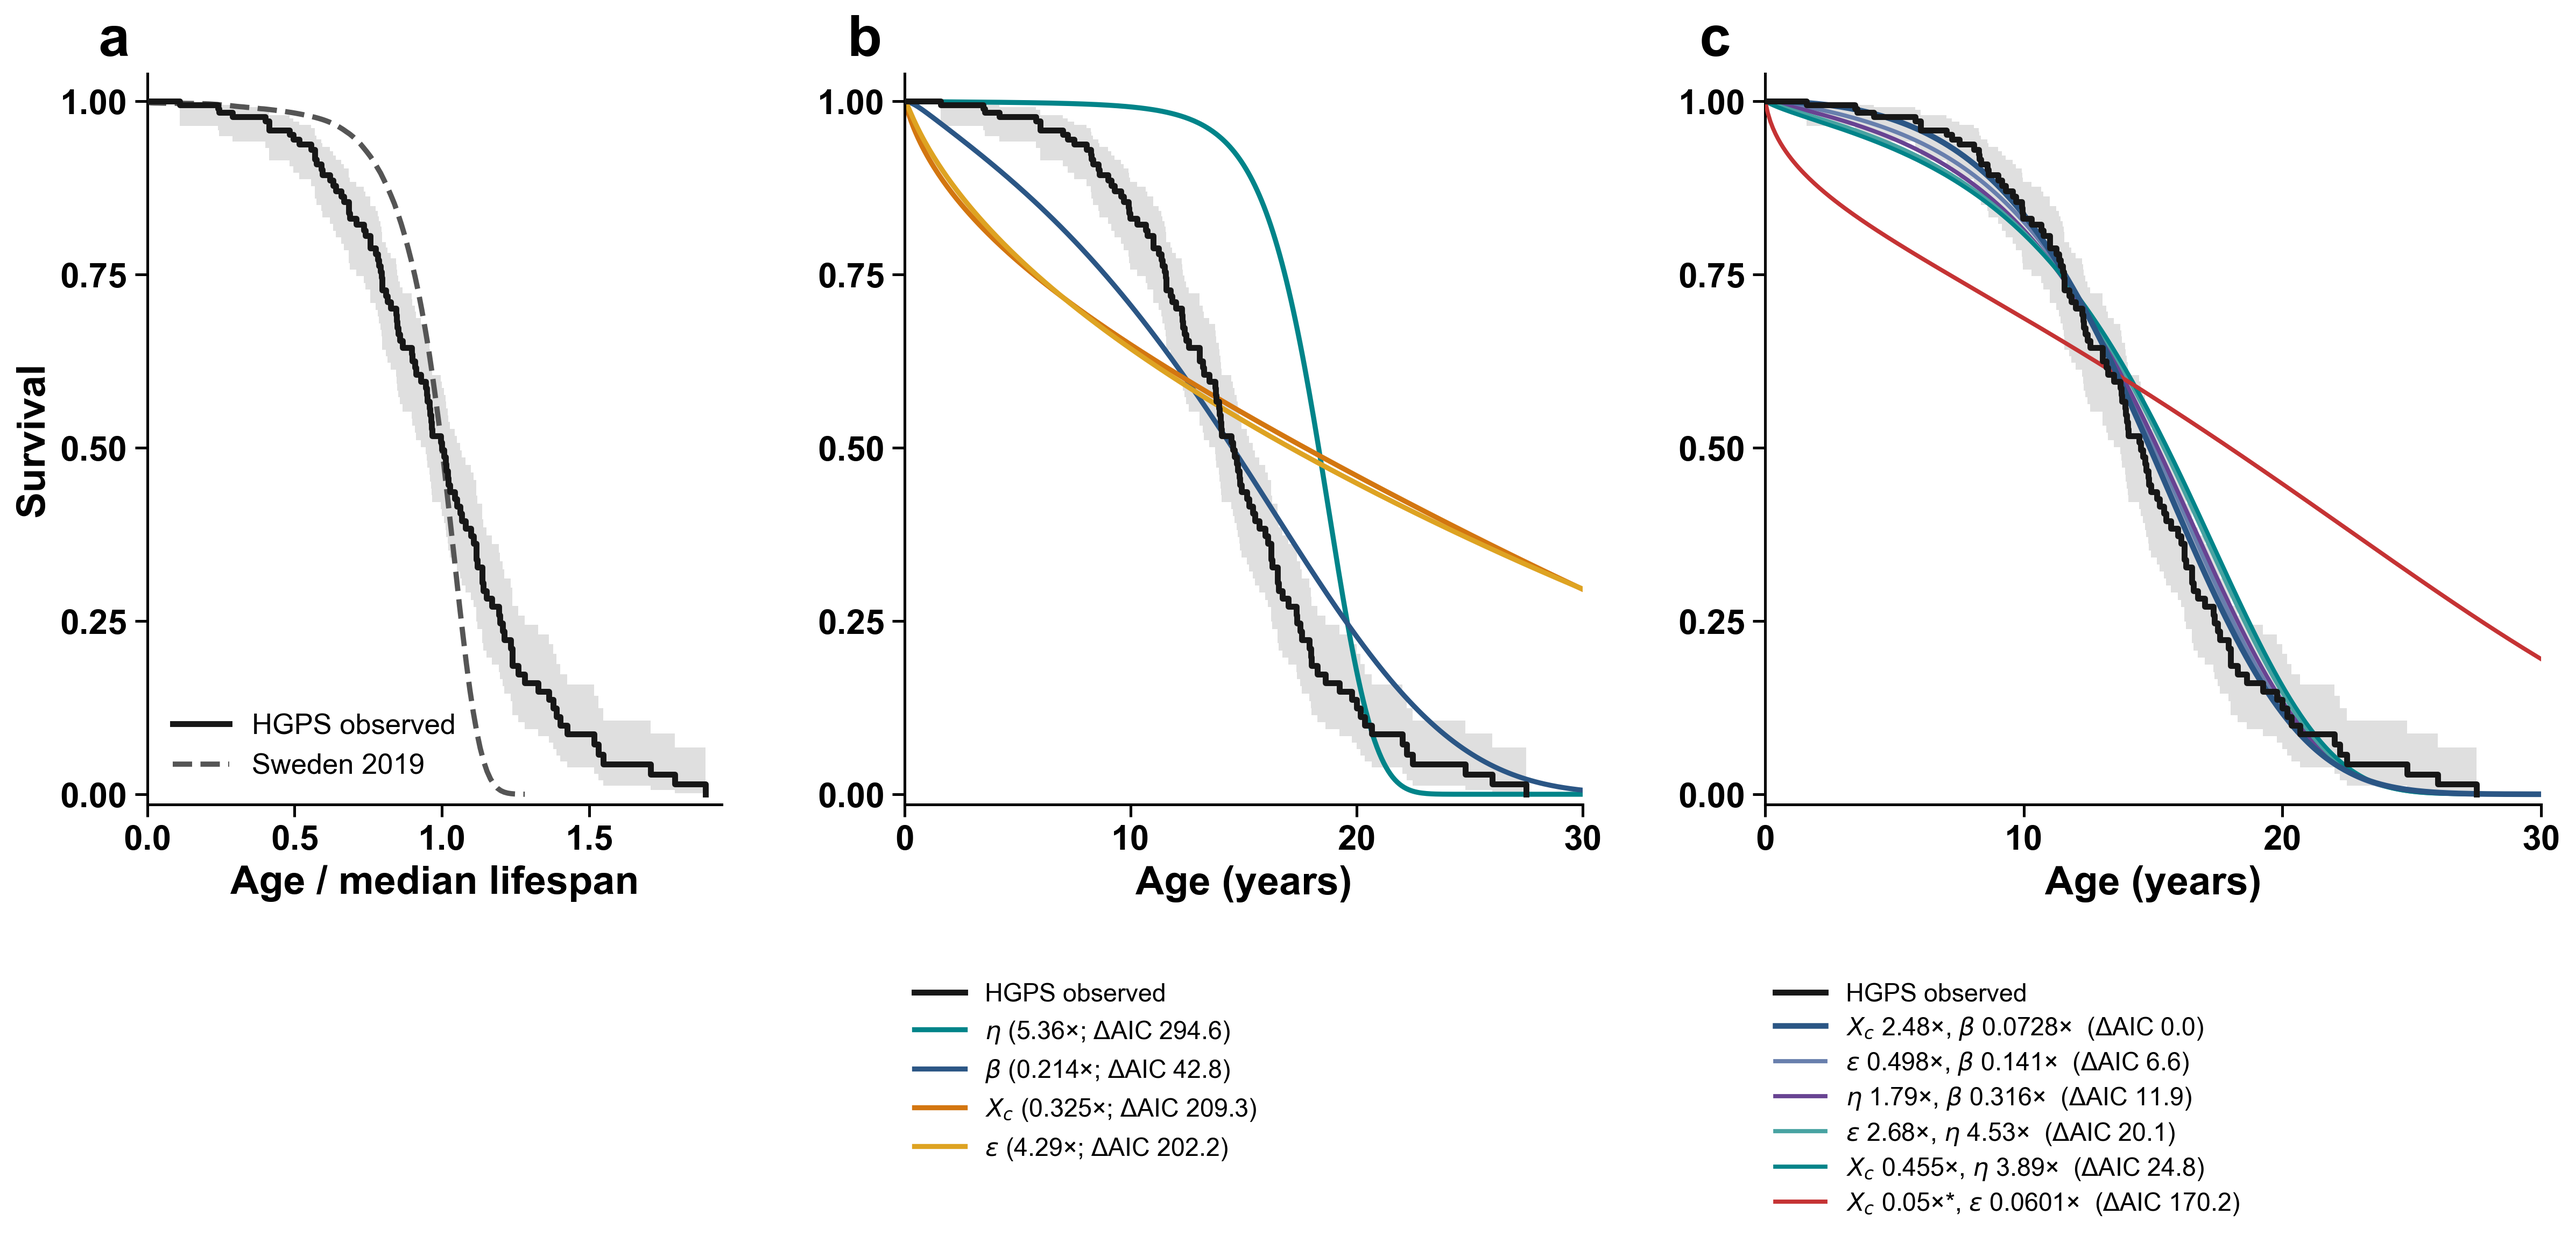
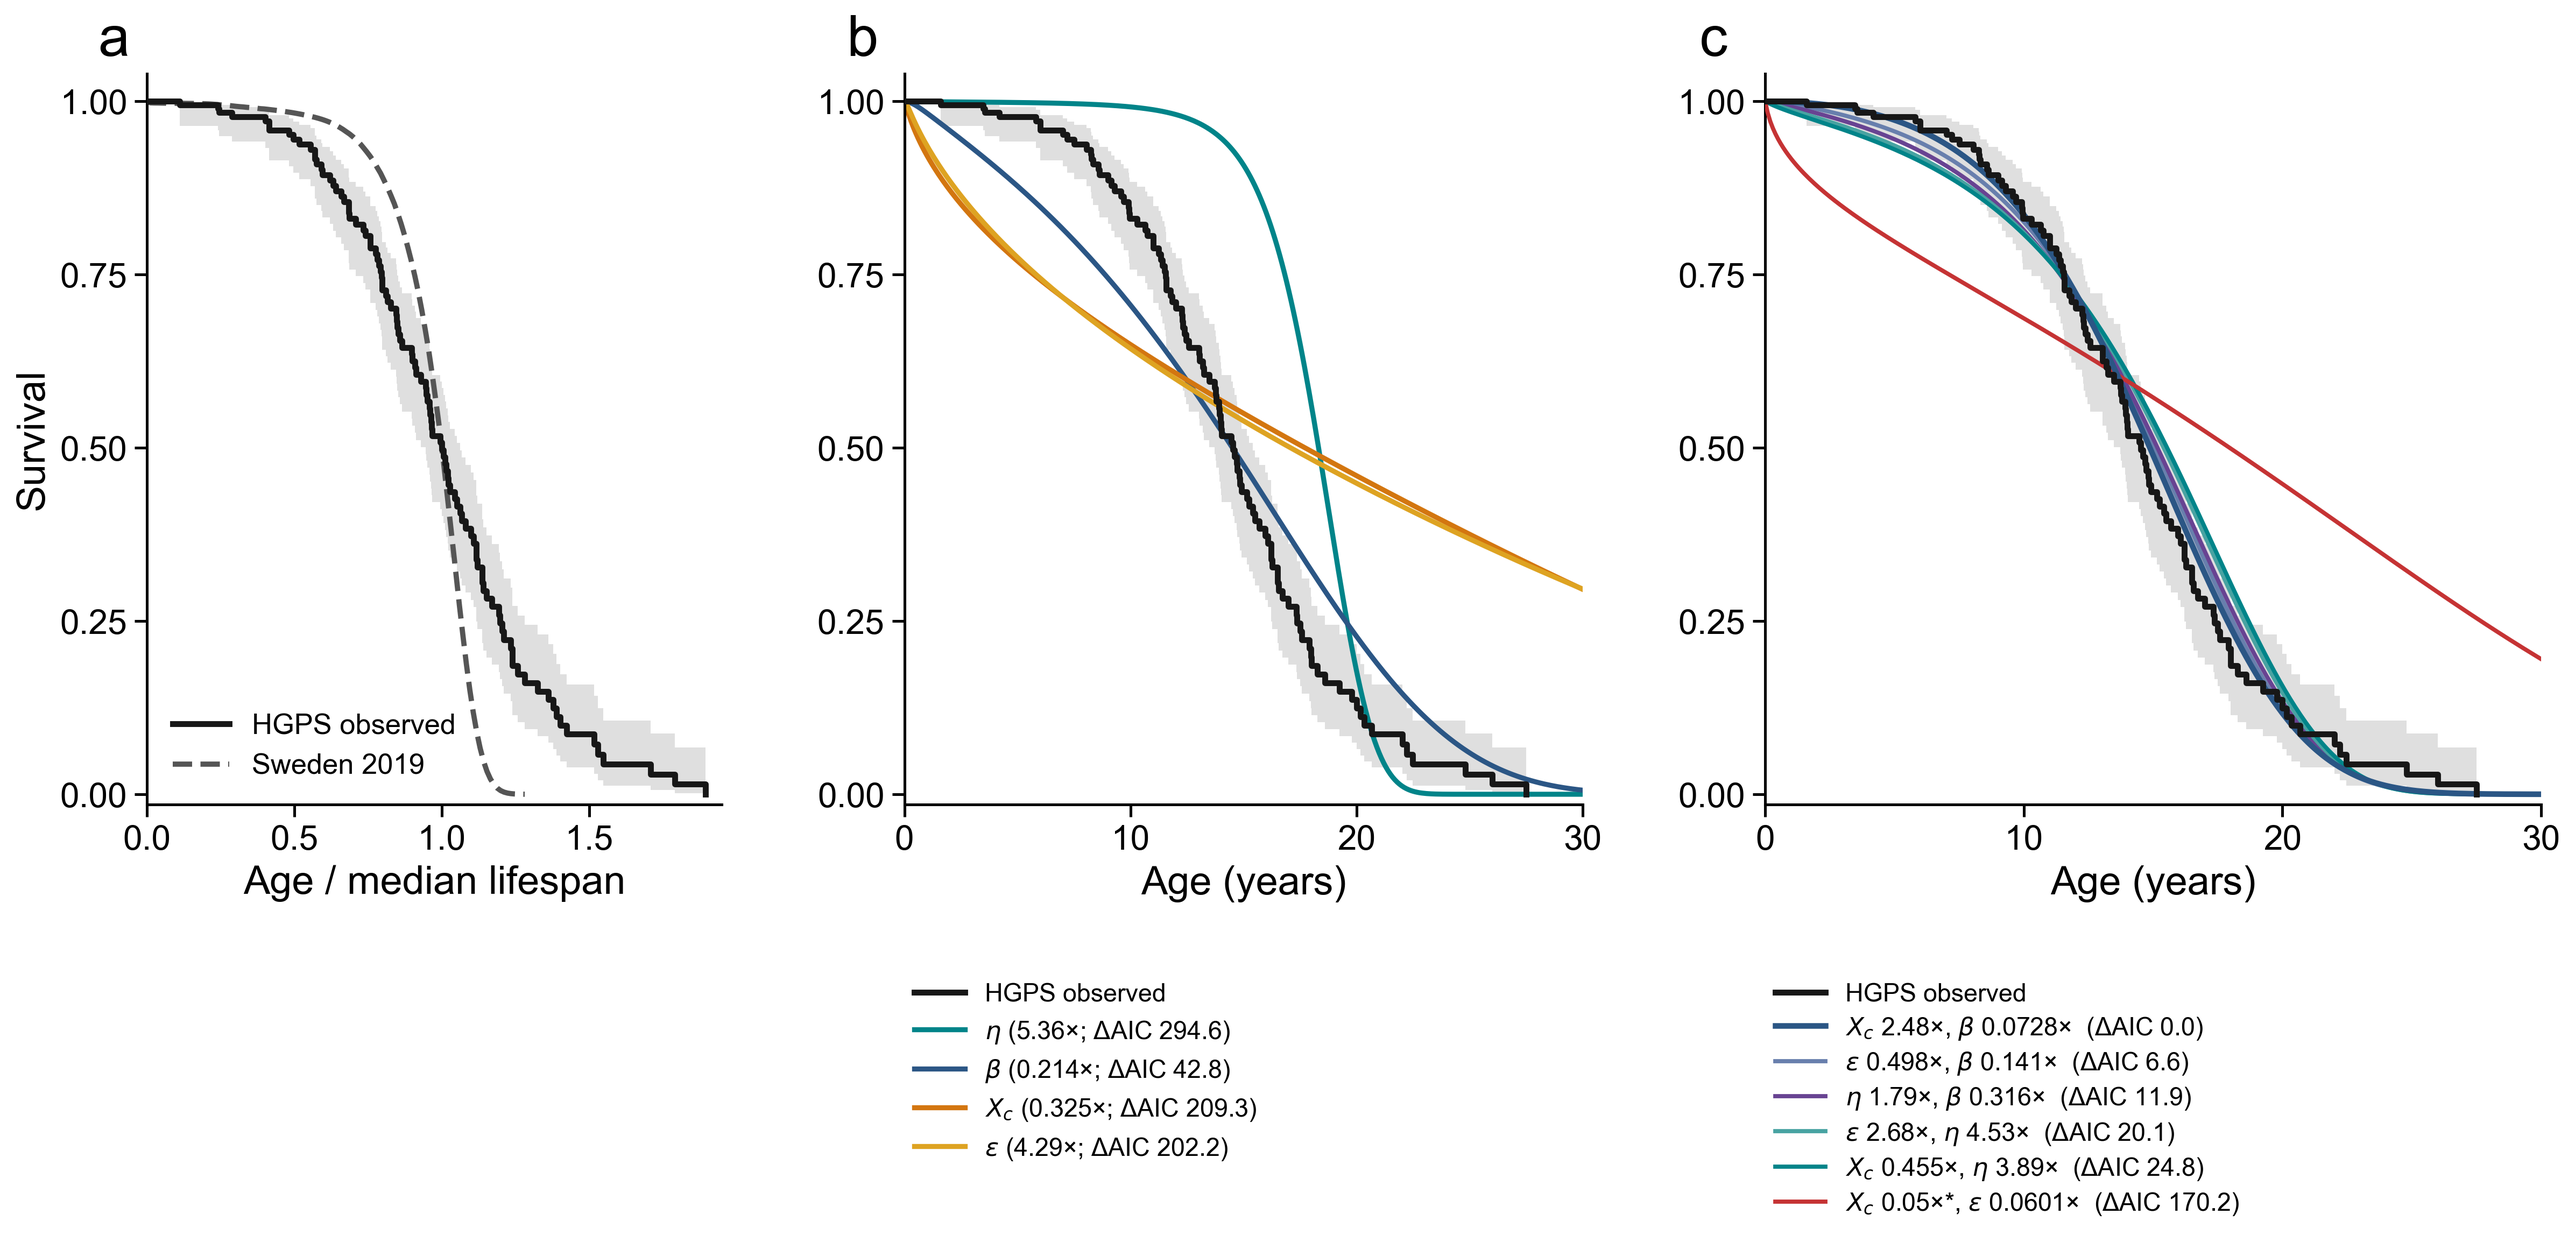
Match Figure 6 typography to manuscript figures

diff --git a/analysis/figures/figure6_progeria/plot_fig6.py b/analysis/figures/figure6_progeria/plot_fig6.py
@@ -41,7 +41,7 @@ def km(records):
     return tuple(np.asarray(values) for values in (t, s, lo, hi))
 
 mpl.rcParams.update({"font.family": "Arial", "font.size": 16,
-                     "axes.labelsize": 19, "axes.labelweight": "bold",
+                     "axes.labelsize": 19, "axes.labelweight": "normal",
                      "xtick.labelsize": 16.5, "ytick.labelsize": 16.5,
                      "legend.fontsize": 12, "axes.linewidth": 1.3})
 
@@ -62,8 +62,8 @@ def style(ax, norm=False):
     ax.spines[["top", "right"]].set_visible(False)
     ax.tick_params(width=1.3, length=6, labelsize=16.5)
     for tick in ax.get_xticklabels() + ax.get_yticklabels():
-        tick.set_fontweight("bold")
-    ax.xaxis.label.set_fontweight("bold")
+        tick.set_fontweight("normal")
+    ax.xaxis.label.set_fontweight("normal")
 
 
 def main():
@@ -117,7 +117,7 @@ def main():
                    frameon=False, fontsize=12, borderaxespad=0,
                    labelspacing=.35, handlelength=2)
     for ax, letter in zip(axes, "abc"):
-        ax.text(-.085, 1.025, letter, transform=ax.transAxes, fontsize=27, fontweight="bold")
+        ax.text(-.085, 1.025, letter, transform=ax.transAxes, fontsize=27, fontweight="normal")
     FIGURE.parent.mkdir(parents=True, exist_ok=True)
     fig.savefig(FIGURE, dpi=280, bbox_inches="tight")
     plt.close(fig)
